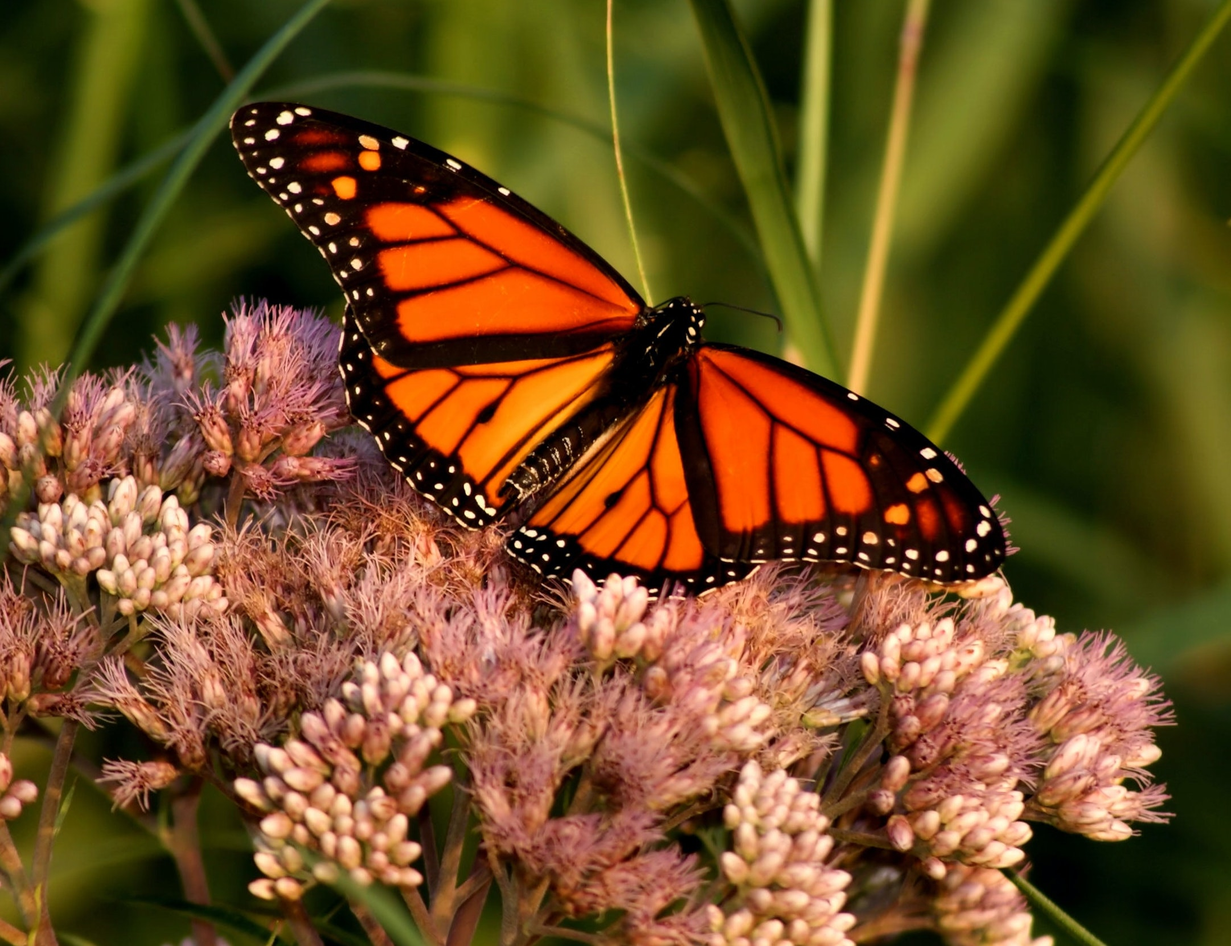
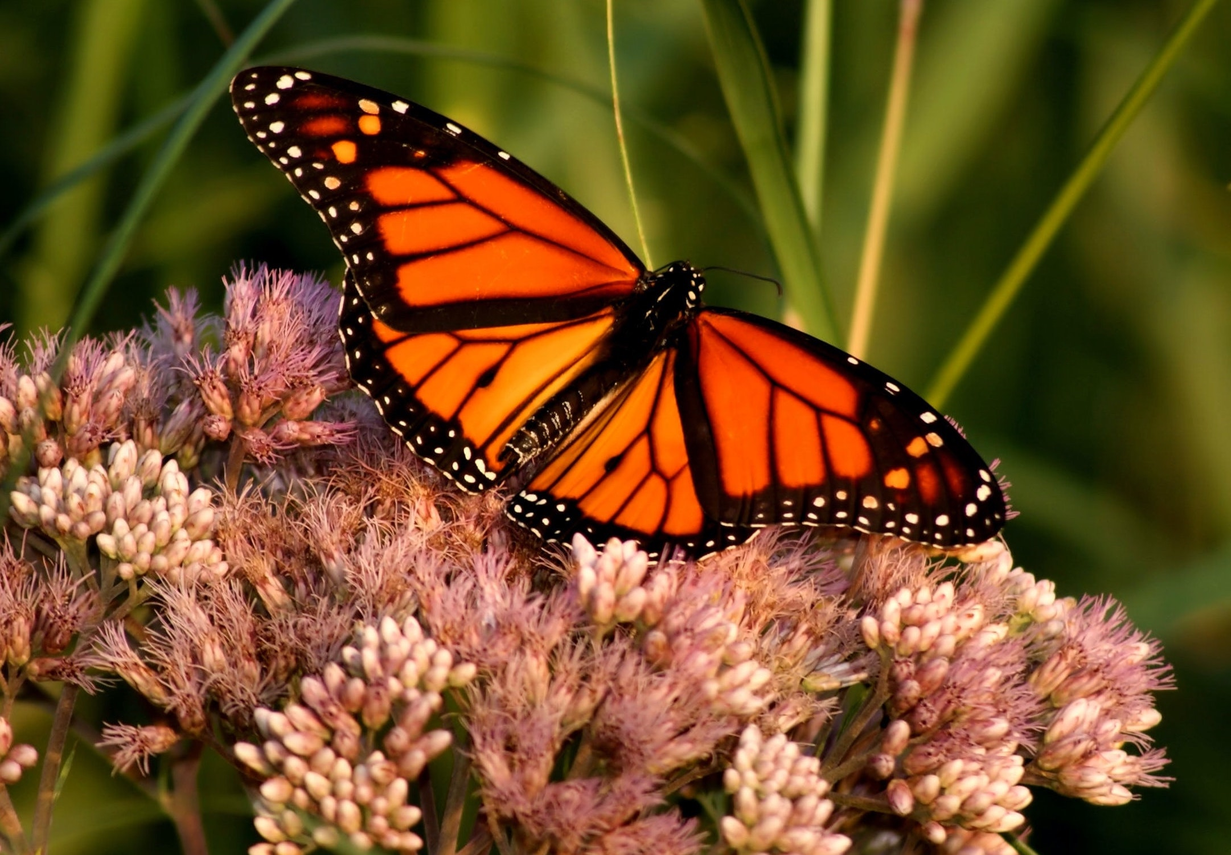
updated images to have same aspect ratio and styled content paragraph

diff --git a/index.html b/index.html
@@ -90,10 +90,33 @@
     <div class="hero">
       <img
         src="images/SeaTurtle.jpg"
-        class="img-fluid mt-5 d-block mx-auto rounded"
+        class="hero-img img-fluid mt-5 d-block mx-auto rounded"
         alt="Underwater image of a sea turtle swimming"
       />
     </div>
     <h1>Discover the fascinating world inside the kingdom Animalia</h1>
+    <div class="container">
+      <div class="row">
+        <div class="col-6">
+          <img
+            src="images/MonarchButterfly.jpg"
+            class="img-fluid rounded-3"
+            alt="Image of Monarch Butterfly on flower"
+          />
+        </div>
+        <div class="col-6">
+          <img
+            src="images/Lemur.jpg"
+            class="img-fluid rounded-3"
+            alt="Image of a brown and black lemur's face"
+          />
+        </div>
+      </div>
+    </div>
+    <p class="home-content text-center p-3">
+      The animal kingdom is the largest kingdom among living things, featuring
+      over 1 million organisms. Expedition Animalia takes you on a journey
+      through the vibrant world of these invertebrates and vertebrates.
+    </p>
   </body>
 </html>

diff --git a/css/styles.css b/css/styles.css
@@ -19,6 +19,14 @@ h1{
     font-size: 48px;
 }
 
+.home-content{
+    font-family:var(--default-font-famiy);
+    font-weight: 400;
+    color: var(--secondary-color);
+    font-size: 24px;
+    margin: 10px 5px;
+}
+
 .navbar{
     background: var(--secondary-color)!important;
     font-family: var(--default-font-famiy);
@@ -61,5 +69,8 @@ h1{
     color: var(--accent-color);
 }
 
+.hero-img{
+size: 80%;
+}
 /*font-family: 'Open Sans', sans-serif;
 font-family: 'Source Serif Pro', serif;
